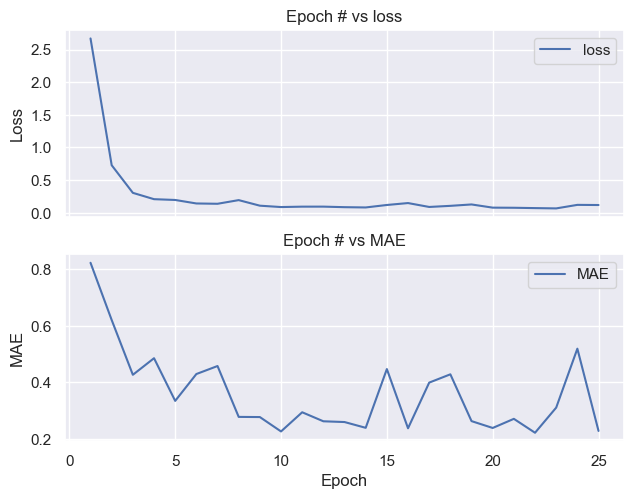
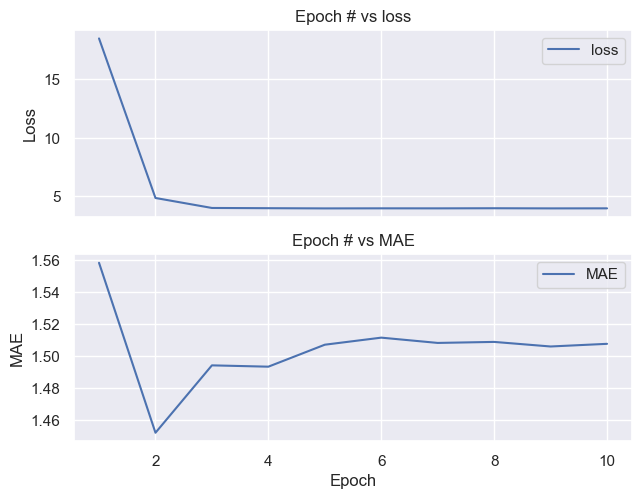
Linear regression with Var GD optimizer complete example

diff --git a/examples/linr-wine/report/report.html b/examples/linr-wine/report/report.html
@@ -26,10 +26,12 @@ body {
 <body>
     <code>
         <pre style="font-family:Menlo,'DejaVu Sans Mono',consolas,'Courier New',monospace"><span class="r1">─────────────────────────────────────────────────────────────────────────────────────────────────── </span>🍇 Linear Regression - Wine data<span class="r1"> ────────────────────────────────────────────────────────────────────────────────────────────────────</span>
-<span class="r2">📆 November </span><span class="r3">02</span><span class="r2"> </span><span class="r3">2022</span><span class="r2"> </span><span class="r4">02:04:18</span>
+<span class="r2">📆 November </span><span class="r3">02</span><span class="r2"> </span><span class="r3">2022</span><span class="r2"> </span><span class="r4">02:26:35</span>
 🐼 <span class="r2">Created by</span> <span class="r5">Ludek Cizinsky</span>
 <span class="r1">──────────────────────────────────────────────────────────────────────────────────────────────────── </span>🚧 Prepare input for the model<span class="r1"> ─────────────────────────────────────────────────────────────────────────────────────────────────────</span>
 <span class="r6">🐍 Load and split data</span>
+<span class="r6">🐍 Shuffle the data</span>
+<span class="r6">🐍 Set X to be alcohol lvl and y color intensity</span>
 <span class="r6">🐍 Train test split</span>
 <span class="r6">🐍 Process the data</span>
 <span class="r1">────────────────────────────────────────────────────────────────────────────────────────────────────────── </span>🤖 Train the model<span class="r1"> ───────────────────────────────────────────────────────────────────────────────────────────────────────────</span>
@@ -37,35 +39,21 @@ body {
 │ ┏━━━━━━━┳━━━━━━━━┳━━━━━━┓ │       │                                 │
 │ ┃<span class="r7"> Epoch </span>┃<span class="r7">  Loss  </span>┃<span class="r7"> MAEr </span>┃ │       │        <span class="r8">Hyper-parameters</span>         │
 │ ┡━━━━━━━╇━━━━━━━━╇━━━━━━┩ │       │                                 │
-│ │<span class="r2"> 00001 </span>│<span class="r9"> 02.670 </span>│<span class="r10"> 0.82 </span>│ │       │ Following hyper-parameters have │
-│ │<span class="r2"> 00002 </span>│<span class="r9"> 00.727 </span>│<span class="r10"> 0.62 </span>│ │       │ been used:                      │
-│ │<span class="r2"> 00003 </span>│<span class="r9"> 00.304 </span>│<span class="r10"> 0.43 </span>│ │       │                                 │
-│ │<span class="r2"> 00004 </span>│<span class="r9"> 00.207 </span>│<span class="r10"> 0.49 </span>│ │       │ <span class="r11"> • </span>Epochs: 25                   │
-│ │<span class="r2"> 00005 </span>│<span class="r9"> 00.195 </span>│<span class="r10"> 0.33 </span>│ │       │ <span class="r11"> • </span>Loss func: mse               │
-│ │<span class="r2"> 00006 </span>│<span class="r9"> 00.142 </span>│<span class="r10"> 0.43 </span>│ │       │ <span class="r11"> • </span>Batch size: 29               │
-│ │<span class="r2"> 00007 </span>│<span class="r9"> 00.137 </span>│<span class="r10"> 0.46 </span>│ │       │ <span class="r11"> • </span>LR: 0.15                     │
-│ │<span class="r2"> 00008 </span>│<span class="r9"> 00.193 </span>│<span class="r10"> 0.28 </span>│ │       │                                 │
-│ │<span class="r2"> 00009 </span>│<span class="r9"> 00.108 </span>│<span class="r10"> 0.28 </span>│ │       │                                 │
-│ │<span class="r2"> 00010 </span>│<span class="r9"> 00.087 </span>│<span class="r10"> 0.23 </span>│ │       │          <span class="r8">Training plot</span>          │
-│ │<span class="r2"> 00011 </span>│<span class="r9"> 00.093 </span>│<span class="r10"> 0.29 </span>│ │       │                                 │
-│ │<span class="r2"> 00012 </span>│<span class="r9"> 00.093 </span>│<span class="r10"> 0.26 </span>│ │       │ 📈 See training plot <a class="r12" href="figures/training.png">here</a>       │
-│ │<span class="r2"> 00013 </span>│<span class="r9"> 00.085 </span>│<span class="r10"> 0.26 </span>│ │       ╰─────────────────────────────────╯
-│ │<span class="r2"> 00014 </span>│<span class="r9"> 00.080 </span>│<span class="r10"> 0.24 </span>│ │                                          
-│ │<span class="r2"> 00015 </span>│<span class="r9"> 00.118 </span>│<span class="r10"> 0.45 </span>│ │                                          
-│ │<span class="r2"> 00016 </span>│<span class="r9"> 00.148 </span>│<span class="r10"> 0.24 </span>│ │                                          
-│ │<span class="r2"> 00017 </span>│<span class="r9"> 00.088 </span>│<span class="r10"> 0.40 </span>│ │                                          
-│ │<span class="r2"> 00018 </span>│<span class="r9"> 00.105 </span>│<span class="r10"> 0.43 </span>│ │                                          
-│ │<span class="r2"> 00019 </span>│<span class="r9"> 00.126 </span>│<span class="r10"> 0.26 </span>│ │                                          
-│ │<span class="r2"> 00020 </span>│<span class="r9"> 00.078 </span>│<span class="r10"> 0.24 </span>│ │                                          
-│ │<span class="r2"> 00021 </span>│<span class="r9"> 00.076 </span>│<span class="r10"> 0.27 </span>│ │                                          
-│ │<span class="r2"> 00022 </span>│<span class="r9"> 00.070 </span>│<span class="r10"> 0.22 </span>│ │                                          
-│ │<span class="r2"> 00023 </span>│<span class="r9"> 00.066 </span>│<span class="r10"> 0.31 </span>│ │                                          
-│ │<span class="r2"> 00024 </span>│<span class="r9"> 00.120 </span>│<span class="r10"> 0.52 </span>│ │                                          
-│ │<span class="r2"> 00025 </span>│<span class="r9"> 00.118 </span>│<span class="r10"> 0.23 </span>│ │                                          
-│ └───────┴────────┴──────┘ │                                          
-╰───────────────────────────╯                                          
+│ │<span class="r2"> 00001 </span>│<span class="r9"> 18.493 </span>│<span class="r10"> 1.56 </span>│ │       │ Following hyper-parameters have │
+│ │<span class="r2"> 00002 </span>│<span class="r9"> 04.833 </span>│<span class="r10"> 1.45 </span>│ │       │ been used:                      │
+│ │<span class="r2"> 00003 </span>│<span class="r9"> 03.978 </span>│<span class="r10"> 1.49 </span>│ │       │                                 │
+│ │<span class="r2"> 00004 </span>│<span class="r9"> 03.958 </span>│<span class="r10"> 1.49 </span>│ │       │ <span class="r11"> • </span>Epochs: 10                   │
+│ │<span class="r2"> 00005 </span>│<span class="r9"> 03.940 </span>│<span class="r10"> 1.51 </span>│ │       │ <span class="r11"> • </span>Loss func: mse               │
+│ │<span class="r2"> 00006 </span>│<span class="r9"> 03.946 </span>│<span class="r10"> 1.51 </span>│ │       │ <span class="r11"> • </span>Batch size: 71               │
+│ │<span class="r2"> 00007 </span>│<span class="r9"> 03.944 </span>│<span class="r10"> 1.51 </span>│ │       │ <span class="r11"> • </span>LR: 0.25                     │
+│ │<span class="r2"> 00008 </span>│<span class="r9"> 03.954 </span>│<span class="r10"> 1.51 </span>│ │       │                                 │
+│ │<span class="r2"> 00009 </span>│<span class="r9"> 03.941 </span>│<span class="r10"> 1.51 </span>│ │       │                                 │
+│ │<span class="r2"> 00010 </span>│<span class="r9"> 03.945 </span>│<span class="r10"> 1.51 </span>│ │       │          <span class="r8">Training plot</span>          │
+│ └───────┴────────┴──────┘ │       │                                 │
+╰───────────────────────────╯       │ 📈 See training plot <a class="r12" href="figures/training.png">here</a>       │
+                                    ╰─────────────────────────────────╯
 <span class="r1">───────────────────────────────────────────────────────────────────────────────────────────────────────── </span>🔮 Validate the model<span class="r1"> ─────────────────────────────────────────────────────────────────────────────────────────────────────────</span>
-🚥 <span class="r13">MSE</span>: <span class="r14">3.6739563478051167</span>
+🚥 <span class="r13">MSE</span>: <span class="r14">3.025185071755716</span>
 </pre>
     </code>
 </body>

diff --git a/examples/linr-wine/main.py b/examples/linr-wine/main.py
@@ -1,6 +1,7 @@
 import os 
 import sys
 sys.path.insert(0, os.path.abspath('../..'))
+import numpy as np
 
 from nnlearn.linear import LinearRegression as LR
 from nnlearn.metrics import mean_squared_error
@@ -20,10 +21,16 @@ def test_linr_regressor():
     logger.section_start(":construction: Prepare input for the model")
 
     logger.working_on("Load and split data") 
-    X, y = load_wine(return_X_y=True)
+    X, _ = load_wine(return_X_y=True)
+
+    logger.working_on("Shuffle the data")
+    idx = np.random.choice(X.shape[0], X.shape[0], replace=False)
+
+    logger.working_on("Set X to be alcohol lvl and y color intensity")
+    X, y = X[:, [0]], X[:, 9]
 
     logger.working_on("Train test split")
-    X_train, X_test, y_train, y_test = train_test_split(X, y, test_size=0.33, random_state=42)
+    X_train, X_test, y_train, y_test = train_test_split(X, y, test_size=0.2, random_state=42)
     m = X_train.shape[1]
 
     logger.working_on("Process the data")
@@ -34,10 +41,10 @@ def test_linr_regressor():
     logger.section_start(":robot: Train the model")
     figpath = "report/figures/"
     clf = LR(optimizer='gd_backp',
-             epochs = 25,
+             epochs = 10,
              loss_func='mse',
-             batch_size=.25,
-             lr=.15,
+             batch_size=.5,
+             lr=.25,
              shuffle=True,
              bias=True,
              figpath=figpath)

diff --git a/nnlearn/metrics/_regression.py b/nnlearn/metrics/_regression.py
@@ -73,7 +73,7 @@ def mean_squared_error(Y, P, var=True):
 
     else:
         n = Y.shape[0]
-        return squared_error(Y, P, var)
+        return squared_error(Y, P, var)/n
 
 def absolute_error(y, p):
 

diff --git a/examples/linr-wine/readme.md b/examples/linr-wine/readme.md
@@ -1,0 +1,17 @@
+## About
+This example uses [wine's dataset](https://scikit-learn.org/stable/modules/generated/sklearn.datasets.load_wine.html) features `alcohol` as
+input `X` and `color intensity` as output `y`. The selected model, `Linear regression` is trained via gradient descent optimizer.
+
+## Usage
+To run the whole training and evaluation pipeline, simply execute:
+
+```
+python main.py
+```
+
+To then inspect the report, you can run:
+
+```
+open report/report.html
+```
+
